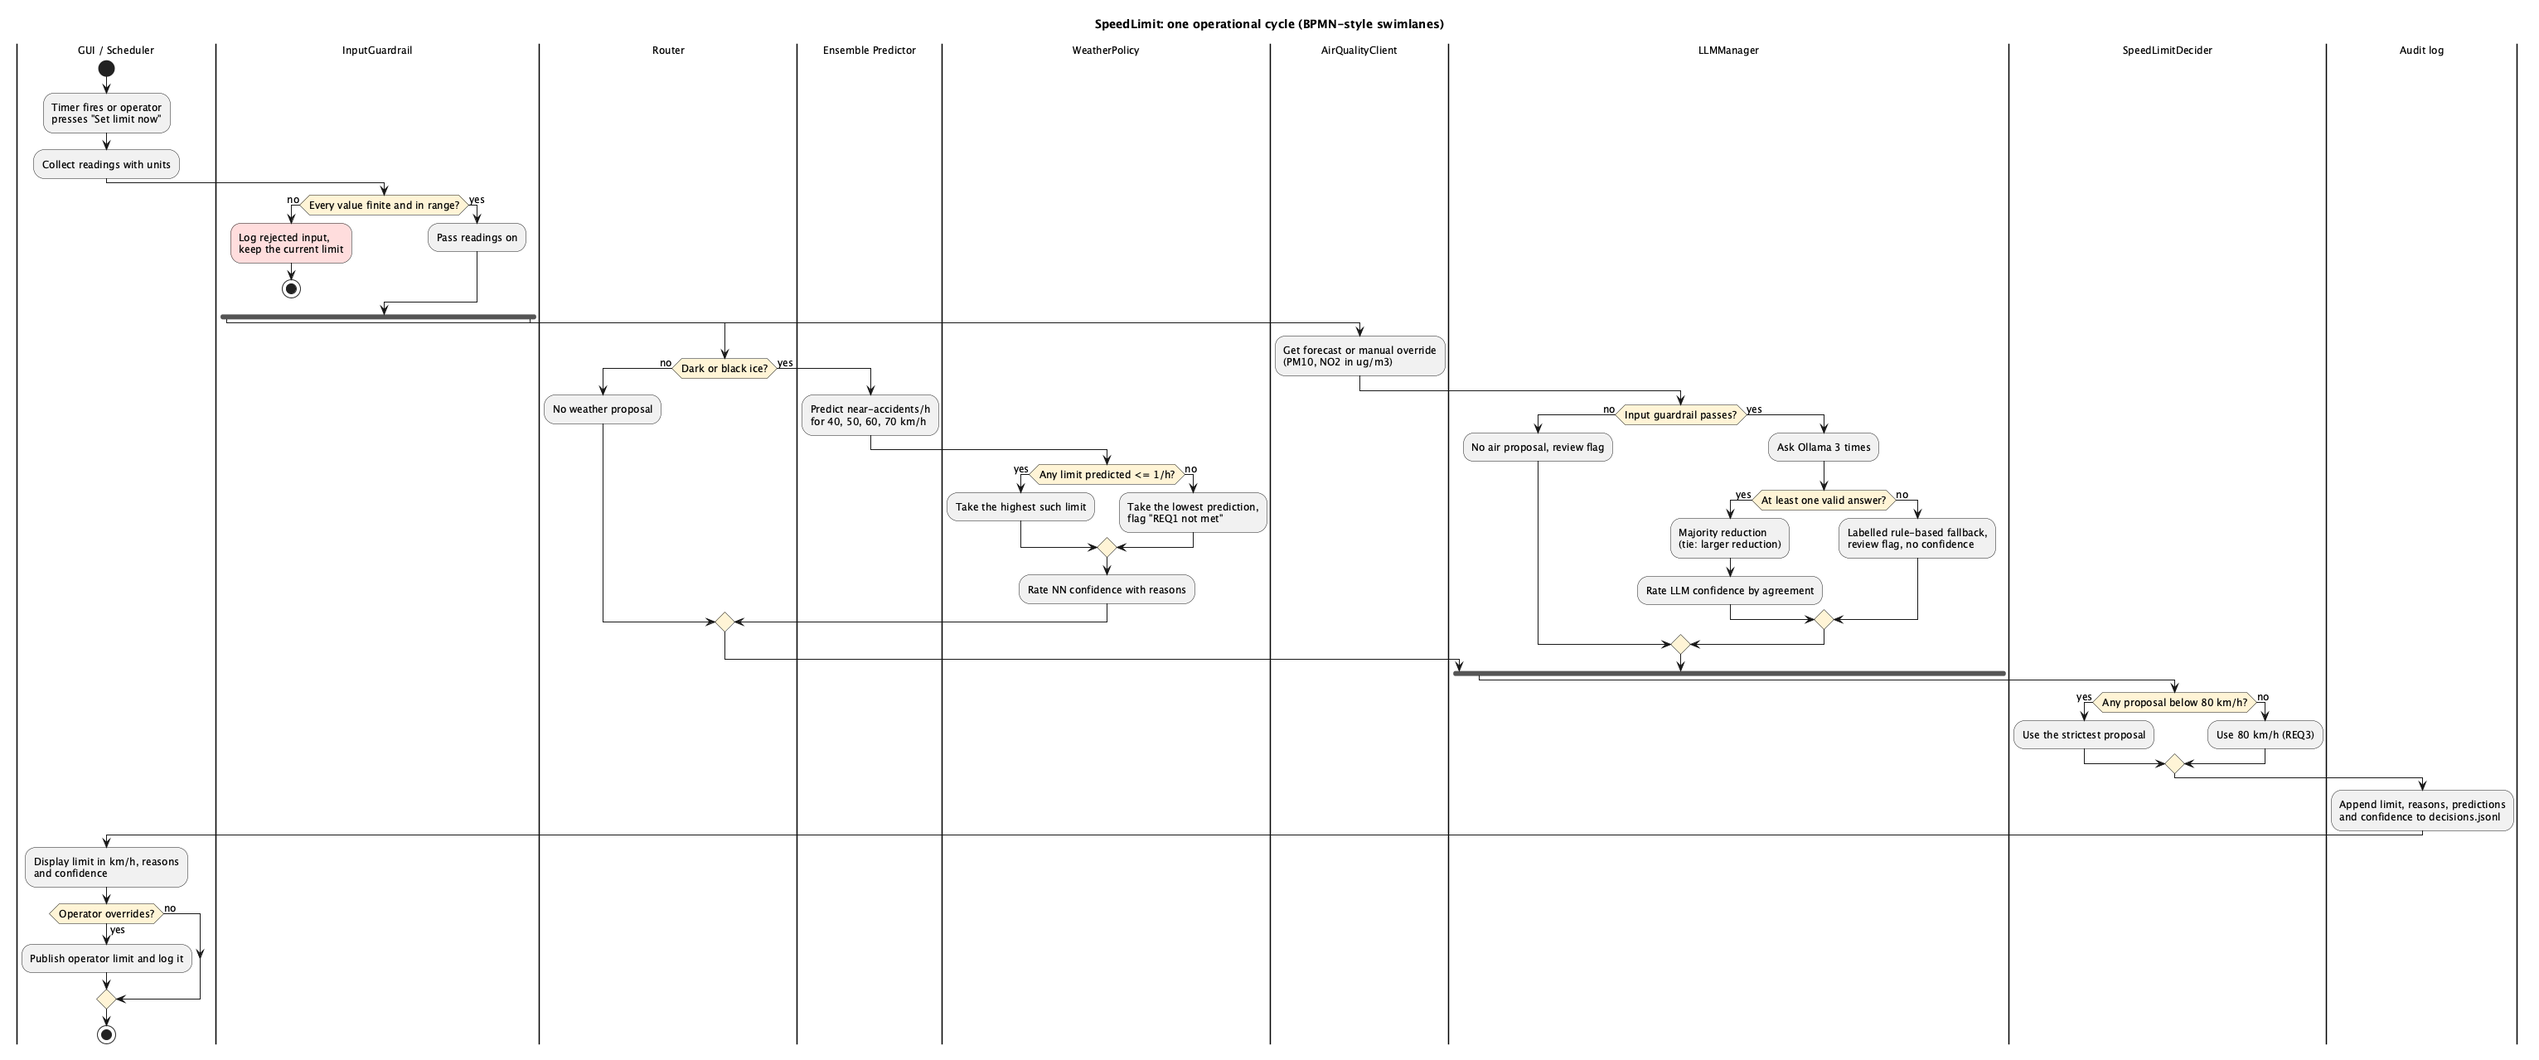
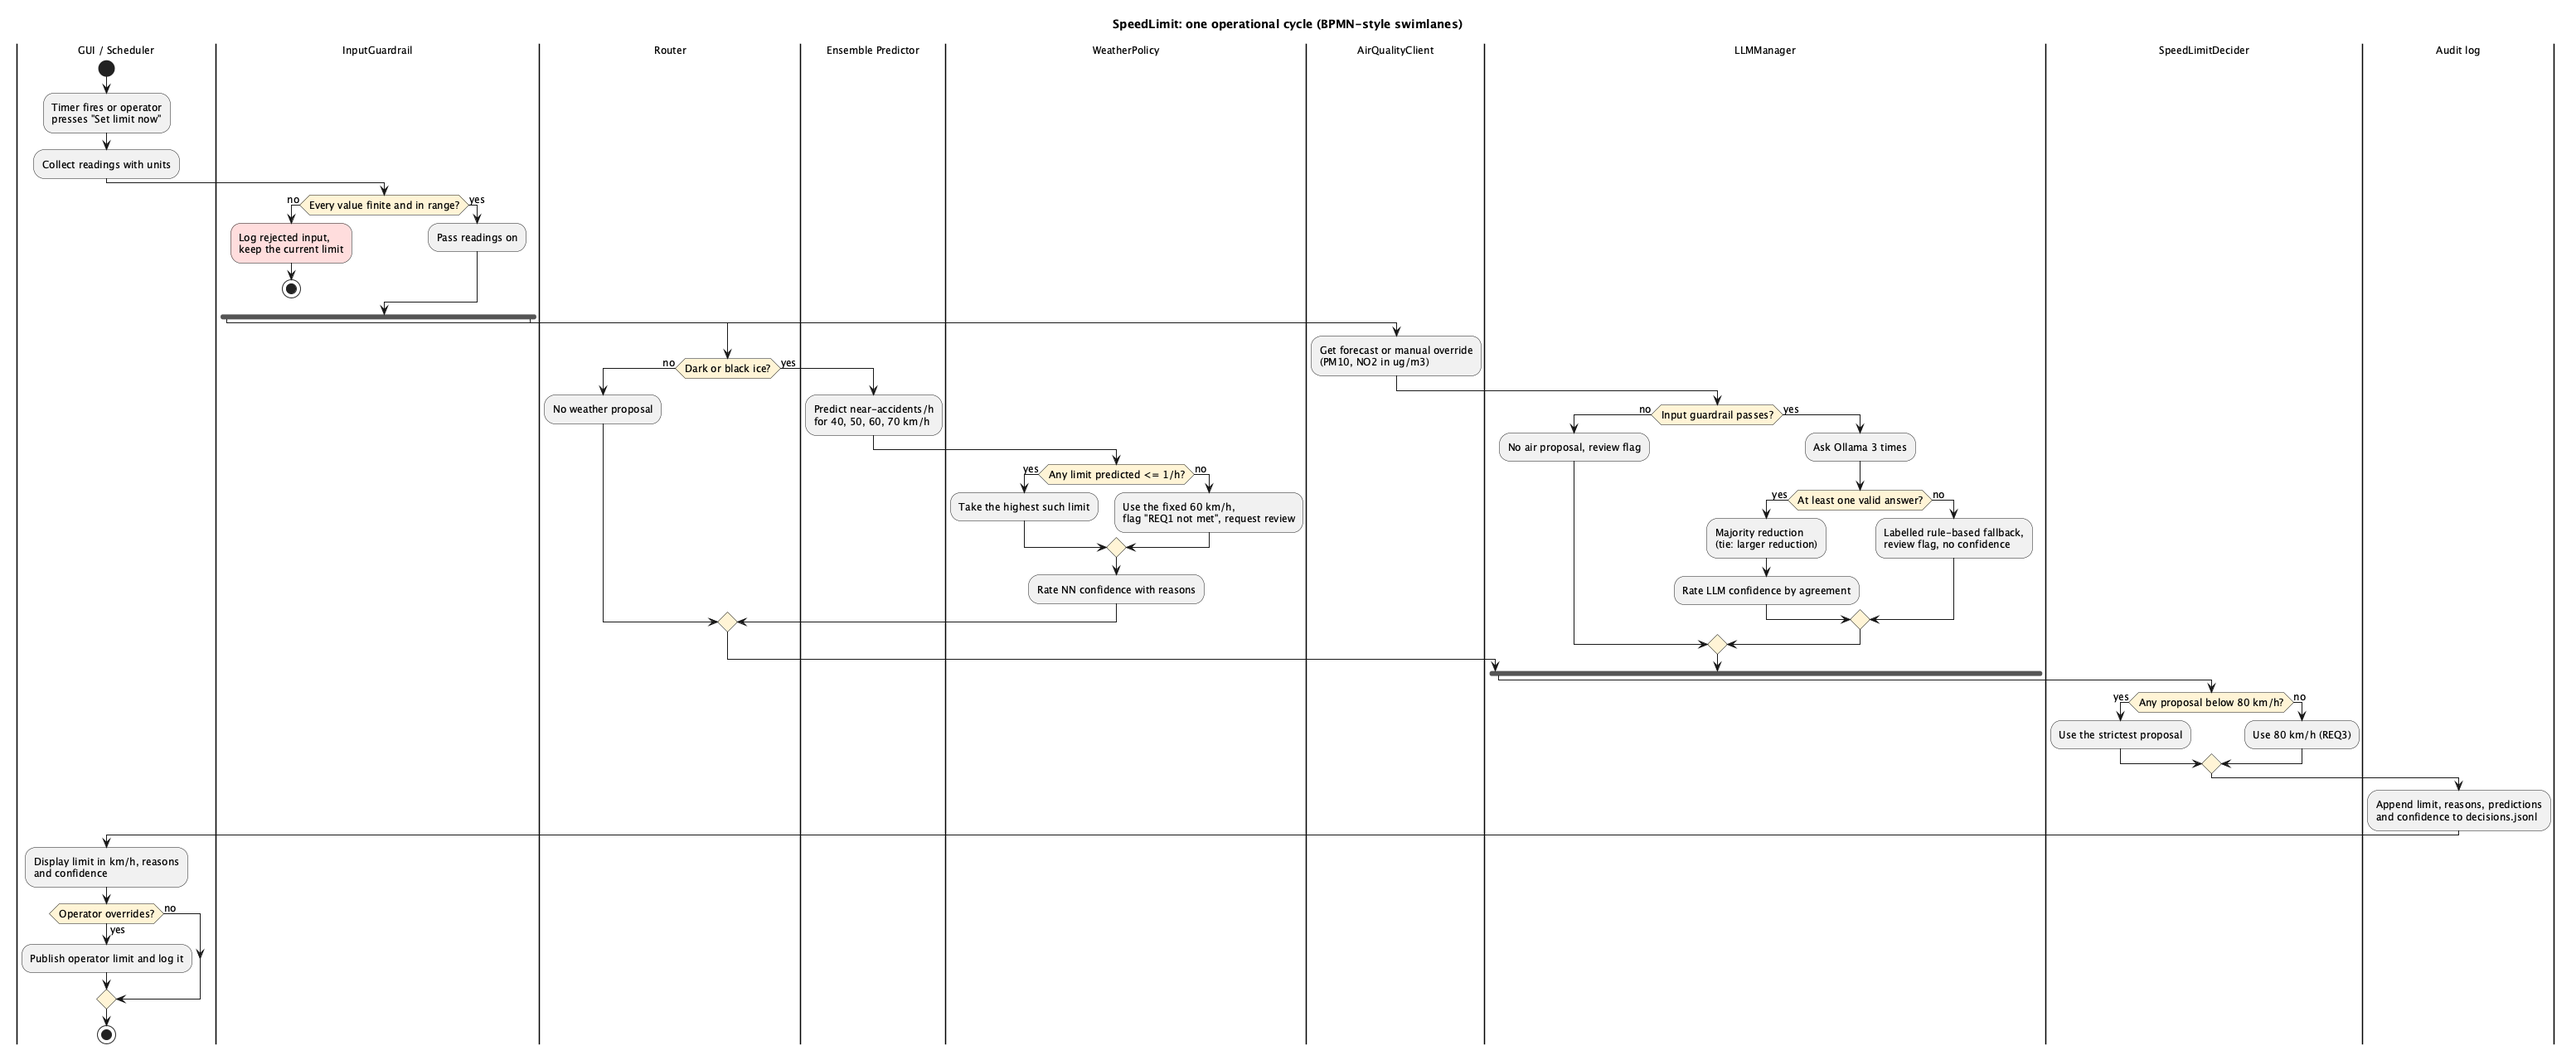
Use a fixed 60 km/h when no limit meets REQ1
Replaying the data showed that taking the lowest prediction chose 70 km/h in
all 389 dark or black-ice hours, because the network learned that slower
limits look riskier. The fixed limit always requests operator review.

diff --git a/core/weather_policy.py b/core/weather_policy.py
@@ -39,7 +39,7 @@ def _check(predictions) -> None:
 
 
 def choose_limit(predictions, skill_pct, support_hours, inside_training_range) -> WeatherDecision:
-    """Highest limit meeting REQ1, otherwise the lowest prediction (agreed behaviour)."""
+    """Highest limit meeting REQ1, otherwise a fixed limit with an operator review."""
     _check(predictions)
     target = config.REQ1_TARGET_PER_HOUR
     meeting = [p for p in predictions if p.mean <= target]
@@ -48,9 +48,12 @@ def choose_limit(predictions, skill_pct, support_hours, inside_training_range) -
         reason = (f"Dark or black ice: {chosen.limit_kmh} km/h is the highest limit predicted "
                   f"at or below {target:g} near-accidents/h ({chosen.mean:.2f}/h)")
     else:
-        chosen = min(predictions, key=lambda p: (p.mean, p.limit_kmh))
+        chosen = next((p for p in predictions if p.limit_kmh == config.FALLBACK_LIMIT), None)
+        if chosen is None:
+            raise InvalidPrediction(f"No prediction for the fixed limit of {config.FALLBACK_LIMIT} km/h")
         reason = (f"REQ1 not met: no limit is predicted at or below {target:g} near-accidents/h. "
-                  f"Using {chosen.limit_kmh} km/h, which has the lowest prediction ({chosen.mean:.2f}/h)")
+                  f"Using the fixed limit of {chosen.limit_kmh} km/h, the limit with the most evidence "
+                  f"in dark or black-ice hours")
     rating = confidence.nn_confidence(skill_pct, chosen.mean, chosen.low, chosen.high,
                                       support_hours.get(chosen.limit_kmh, 0), inside_training_range)
     return WeatherDecision(chosen.limit_kmh, config.DEFAULT_LIMIT - chosen.limit_kmh, bool(meeting),

diff --git a/tests/test_weather_policy.py b/tests/test_weather_policy.py
@@ -29,19 +29,30 @@ def test_exactly_one_meets_target():
     assert decision.req1_met
 
 
-def test_none_meets_target_picks_lowest_prediction():
+def test_none_meets_target_uses_fixed_60():
     decision = choose([1.9, 1.4, 1.3, 1.1])
-    assert decision.limit_kmh == 70
+    assert decision.limit_kmh == 60
+    assert decision.reduction_kmh == 20
     assert not decision.req1_met
     assert "REQ1 not met" in decision.reason
+    assert "60 km/h" in decision.reason
 
 
-def test_lowest_prediction_may_be_in_the_middle():
-    assert choose([1.9, 1.2, 1.5, 1.6]).limit_kmh == 50
+def test_fixed_60_ignores_which_limit_scores_lowest():
+    assert choose([1.1, 1.5, 1.9, 1.6]).limit_kmh == 60
+    assert choose([1.9, 1.2, 1.5, 1.6]).limit_kmh == 60
 
 
-def test_tie_takes_slower_limit():
-    assert choose([1.5, 1.2, 1.2, 1.6]).limit_kmh == 50
+def test_fixed_60_rates_the_60_prediction():
+    decision = wp.choose_limit(preds([1.2, 1.2, 1.5, 1.2]), 10.0, {40: 200, 50: 200, 60: 3, 70: 200}, True)
+    assert decision.limit_kmh == 60
+    assert any("only 3 training hours" in reason for reason in decision.confidence.reasons)
+
+
+def test_fixed_60_needs_a_prediction_for_60():
+    three = [p for p in preds([1.5, 1.5, 1.5, 1.5]) if p.limit_kmh != 60]
+    with pytest.raises(wp.InvalidPrediction):
+        wp.choose_limit(three, -2.0, SUPPORT, True)
 
 
 def test_guardrail_rejects_unknown_limit():

diff --git a/tests/test_cycle.py b/tests/test_cycle.py
@@ -72,7 +72,7 @@ def test_clear_day_good_air_is_80(tmp_path):
 def test_dark_uses_network(tmp_path):
     result = build(tmp_path).run(NIGHT_READINGS)
     assert result.route.use_nn
-    assert result.limit_kmh == 70
+    assert result.limit_kmh == 60
     assert not result.req1_met
     assert result.weather.confidence.level == "Low"
 
@@ -118,11 +118,11 @@ def test_air_api_down_flags_review_without_reduction(tmp_path):
 
 def test_invalid_input_rejected_and_limit_kept(tmp_path):
     system = build(tmp_path)
-    assert system.run(NIGHT_READINGS).limit_kmh == 70
+    assert system.run(NIGHT_READINGS).limit_kmh == 60
     rejected = system.run({**DAY_READINGS, "temperature_c": 500})
     assert rejected.status == "rejected"
-    assert rejected.limit_kmh == 70
-    assert system.last_limit == 70
+    assert rejected.limit_kmh == 60
+    assert system.last_limit == 60
 
 
 def test_invalid_first_input_publishes_nothing(tmp_path):
@@ -146,7 +146,7 @@ def test_audit_record_written(tmp_path):
     build(tmp_path).run(NIGHT_READINGS, source="scheduler")
     record = log_lines(tmp_path)[0]
     assert record["source"] == "scheduler"
-    assert record["limit_kmh"] == 70
+    assert record["limit_kmh"] == 60
     assert record["unit"] == "km/h"
     assert record["predictions"][0]["limit_kmh"] == 40
     assert record["nn_confidence"]["level"] == "Low"

diff --git a/core/cycle.py b/core/cycle.py
@@ -45,8 +45,8 @@ class SpeedLimitCycle:
             weather = weather_policy.choose_limit(predictions, meta["skill_pct"], meta["support_hours"], inside)
         except Exception as error:  # a broken model must not stop the cycle
             reason = (f"Neural network unavailable ({error}). Using the fixed limit of "
-                      f"{config.NN_FAILURE_LIMIT} km/h")
-            return None, Proposal(config.NN_FAILURE_LIMIT, "weather", reason, review=True)
+                      f"{config.FALLBACK_LIMIT} km/h")
+            return None, Proposal(config.FALLBACK_LIMIT, "weather", reason, review=True)
         return weather, Proposal(weather.limit_kmh, "weather", weather.reason, review=not weather.req1_met)
 
     def _air_proposal(self, override):

diff --git a/core/config.py b/core/config.py
@@ -30,8 +30,8 @@ ALLOWED_LIMITS = (40, 50, 60, 70, 80)
 CANDIDATE_LIMITS = (40, 50, 60, 70)
 ALLOWED_REDUCTIONS = (0, 10, 20, 30, 40)
 REQ1_TARGET_PER_HOUR = 1.0
-# Used only if the network cannot run: the limit with the most dark or ice evidence.
-NN_FAILURE_LIMIT = 60
+# Used when no limit meets REQ1 or the network cannot run: the limit with the most dark or ice evidence.
+FALLBACK_LIMIT = 60
 
 # Sensors. Sensor 16 is traffic although its type code T is shared with temperature.
 SENSOR_KIND = {

diff --git a/tests/test_app.py b/tests/test_app.py
@@ -64,7 +64,7 @@ def test_dark_shows_confidence_and_flag(tmp_path):
     at.number_input(key="water_um").set_value(0.0)
     press(at)
     text = all_text(at)
-    assert at.session_state["last_result"].limit_kmh == 70
+    assert at.session_state["last_result"].limit_kmh == 60
     assert "REQ1 not met" in text
     assert "Low" in text
     assert "guessing the average" in text

diff --git a/docs/ARCHITECTURE.md b/docs/ARCHITECTURE.md
@@ -101,13 +101,17 @@ Accidents have no link to sensors. They are joined by day and hour only, which i
 | Human in the loop | The operator sees flags and can override at any time, because software guardrails cannot be fully trusted |
 | Append-only decision log | Every published limit can be reconstructed afterwards |
 
-## 4. A decision with a known risk
+## 4. What happens when REQ1 cannot be met
 
-When no limit meets REQ1, the policy selects the limit with the lowest predicted near-accident rate. There is no constraint that a slower limit must be predicted as safer. The project owner chose this option.
+When no candidate limit is predicted at or below 1 near-accident per hour, the policy uses a **fixed 60 km/h**, shows "REQ1 not met", requests operator review and logs it. 60 km/h is the limit with the most evidence in dark or black-ice hours (230 hours).
 
-The risk is concrete. In the training data, lower limits coincide with more near-accidents (40 km/h: 1.86 per hour, 70 km/h: 1.13 per hour). That pattern is noise or confounding, but a network can learn it and then favour 70 km/h on an icy night. The system therefore shows "REQ1 not met", requests operator review, logs it and leaves the override with the operator. The replay in [Results](#results) shows this risk is real. Before any real use, this should be replaced with a fixed expert limit or a monotonic constraint.
+**Why not the limit with the lowest prediction.** That was the first design, and replaying the data showed the problem. In the training data, lower limits coincide with more near-accidents (40 km/h: 1.86 per hour, 70 km/h: 1.13 per hour). This is noise or confounding, but the network learned it, so the rule chose 70 km/h in all 389 dark or black-ice hours, including icy nights. The project owner reviewed that result and chose the fixed limit instead.
 
-If the network itself is unavailable, this rule cannot run. The cycle then proposes a fixed 60 km/h, the limit with the most evidence in dark or black-ice hours, and sets a review flag.
+**Why not 40 km/h.** It would be the strictest choice, but there are only 7 hours of evidence at 40 km/h, and the data does not show that it helps.
+
+**The trade-off.** On this data the network never finds a limit that meets REQ1, so the fixed limit applies in every dark or black-ice hour. The network therefore does not change the outcome yet. It stays in the design so that it can take over if better data gives it real predictive skill. Until then, 60 km/h is a cautious default and not a proven safe limit, which is why an operator is asked to review it.
+
+If the network itself is unavailable, the cycle uses the same fixed 60 km/h and also sets a review flag.
 
 ## 5. Confidence levels
 
@@ -222,10 +226,10 @@ Replaying all 389 dark or black-ice hours of Year N:
 | Result | Value |
 |---|---|
 | Hours where a limit met REQ1 (at most 1 predicted near-accident/h) | **0 of 389** |
-| Limit chosen | **70 km/h in all 389 hours** |
+| Limit used | **Fixed 60 km/h in all 389 hours** |
 | Neural-network confidence | Low in all 389 hours |
 
-This is the risk from section 4 happening in practice. The network picked up the backwards pattern (slower limits coincide with more near-accidents), so the "lowest prediction" rule always picks the fastest candidate. On this data the weather path therefore only ever reduces the limit by 10 km/h. It is an honest output of the agreed rule, and it is not a safe policy.
+No hour meets REQ1, so the weather path always reduces the limit by 20 km/h and always asks for operator review. An earlier rule that took the limit with the lowest prediction chose 70 km/h in all 389 hours, which is why it was replaced (see section 4).
 
 ### LLM
 
@@ -248,4 +252,4 @@ The local model stayed within the expected ranges in all 5 golden test cases. Fo
 2. Collect data for a full year and more road sections.
 3. Vary limits in a controlled trial, so cause and effect can be separated.
 4. Measure near-accidents per 1000 cars instead of raw counts.
-5. Replace "lowest prediction" with fixed expert limits or a monotonic constraint.
+5. Have road-safety experts confirm or replace the fixed 60 km/h.

diff --git a/HOW_TO_USE.md b/HOW_TO_USE.md
@@ -74,7 +74,7 @@ The first answer for new air-quality values takes around 10 seconds, because the
 |---|---|
 | Speed limit, Reduction | The result in km/h. Reduction is measured from 80 km/h |
 | Reasons | Why this limit applies |
-| REQ1 not met | No limit is predicted to keep near-accidents at or below 1 per hour |
+| REQ1 not met | No limit is predicted to keep near-accidents at or below 1 per hour, so the fixed 60 km/h applies |
 | Operator review needed | A person should look at this limit |
 | Router | A fixed rule, so it has no uncertainty |
 | Neural network level | High, Medium or Low, with one reason per check |
@@ -97,7 +97,7 @@ Pick a limit under **Operator override** and press **Apply override**. It is pub
 | Scenario | Expected result |
 |---|---|
 | Clear day with good air | 80 km/h |
-| Dark night or Icy night | Network path, normally 70 km/h, REQ1 not met, Low confidence |
+| Dark night or Icy night | Network path, normally the fixed 60 km/h, REQ1 not met, operator review, Low confidence |
 | Black ice in daylight | Network path |
 | Clear day, manual PM10 120 and NO₂ 250 µg/m³ | The LLM reduces the limit (50 km/h when tested) |
 | Icy night with that poor air | The strictest proposal wins |

diff --git a/CLAUDE.md b/CLAUDE.md
@@ -42,7 +42,7 @@ Setup: `uv venv --python 3.12 .venv`, then `uv pip install --python .venv/bin/py
 
 ## Agreed behaviour that looks odd
 
-When no limit meets REQ1, the policy picks the limit with the lowest prediction, with no monotonic constraint. It may therefore choose 70 km/h on an icy night. This was the owner's decision. The GUI flags "REQ1 not met". See `docs/ARCHITECTURE.md`.
+When no limit meets REQ1, the policy uses a fixed 60 km/h and requests operator review, even if another limit has a lower prediction. On the current data this applies to every dark or black-ice hour, so the network does not change the outcome. Do not go back to "lowest prediction": it chose 70 km/h for every such hour. See `docs/ARCHITECTURE.md`.
 
 ## Do not commit
 
